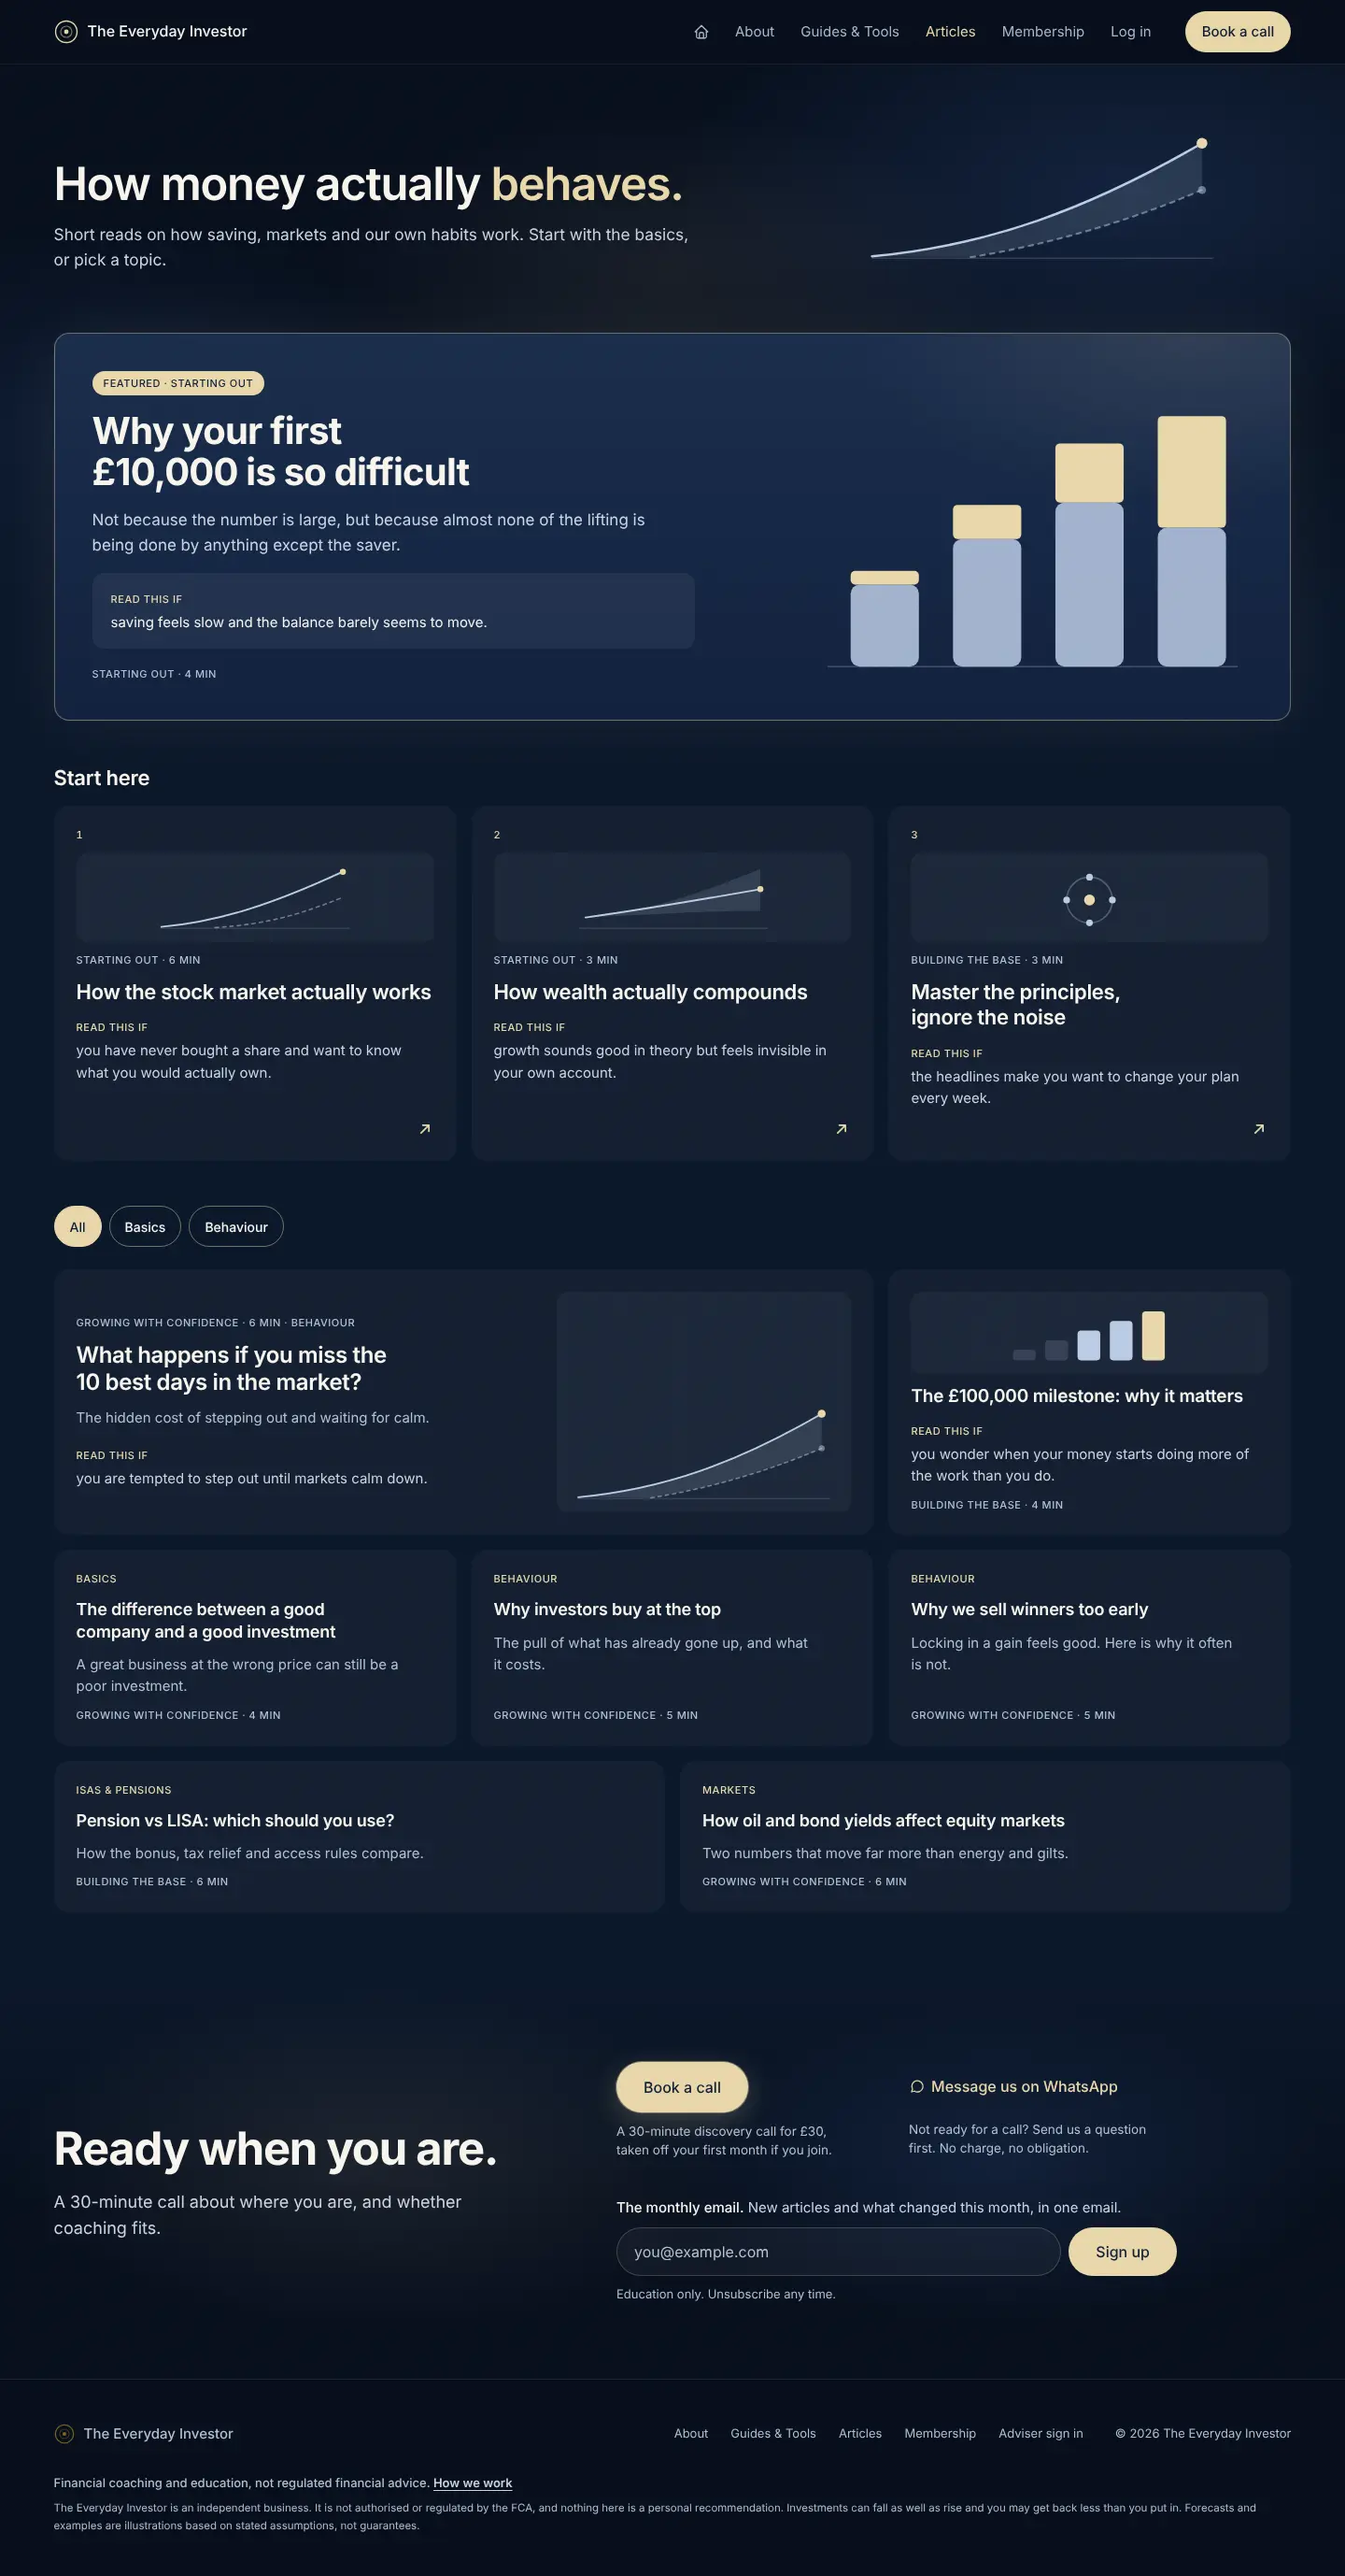
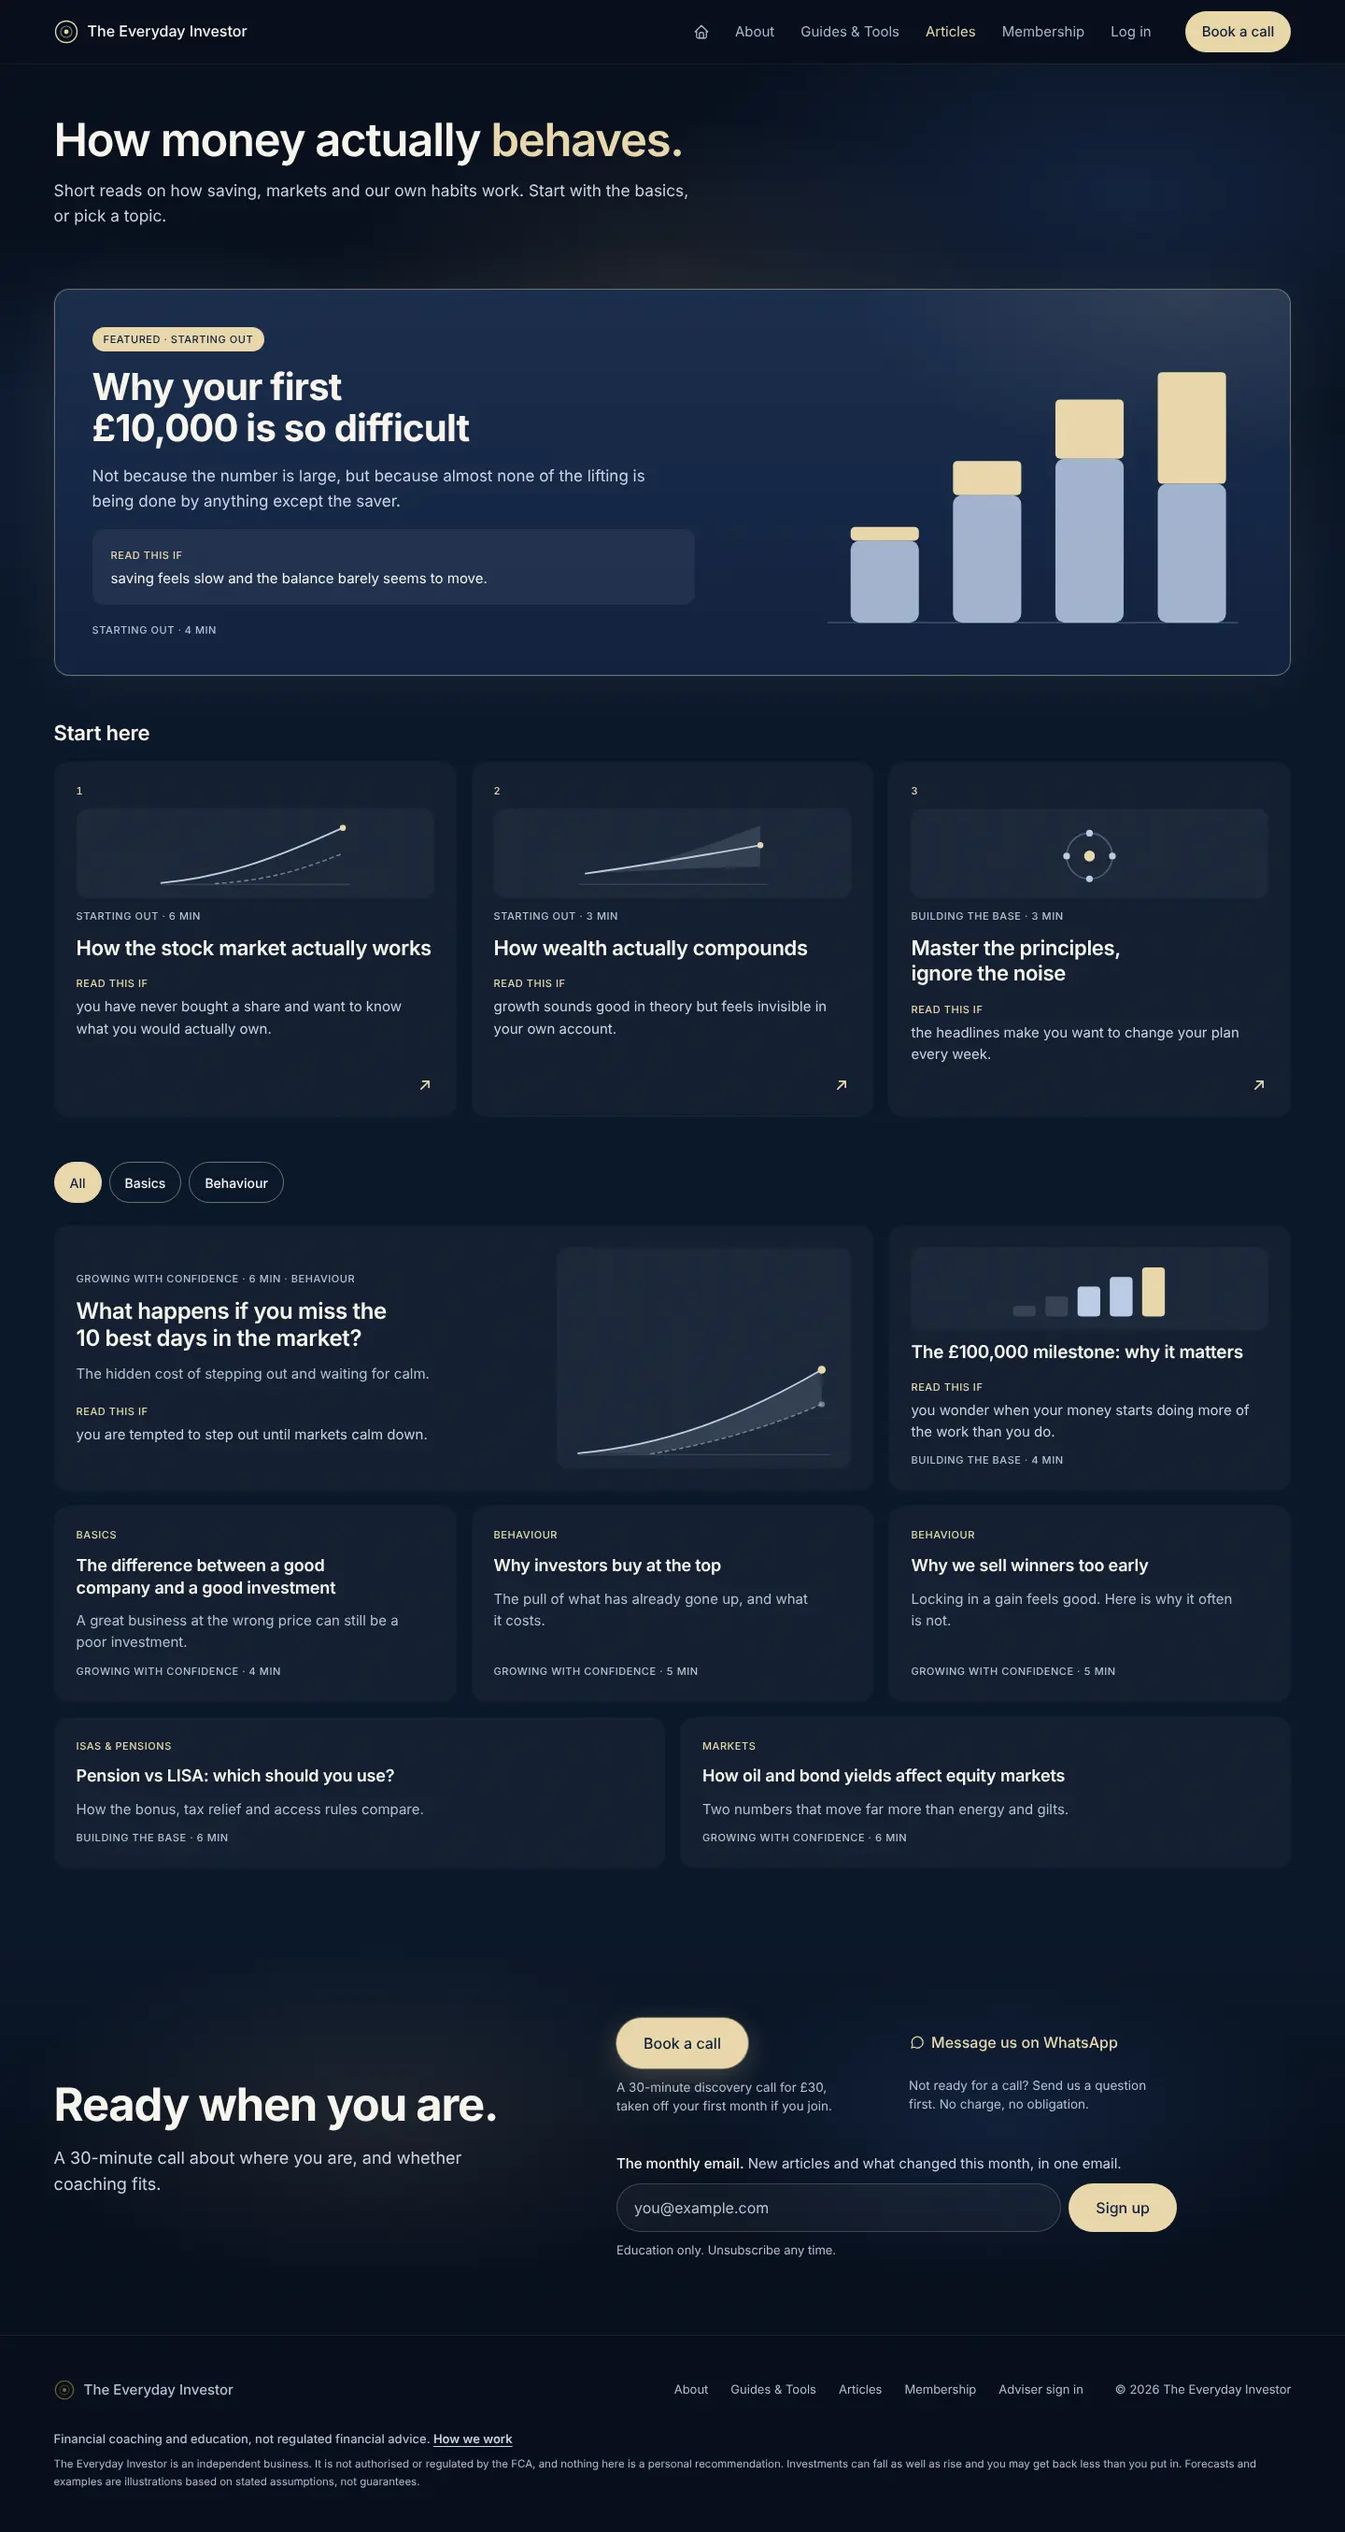
Articles hero: no picture; keep the line under the title
Claude-Session: https://claude.ai/code/session_015wx5SxX2gBEycz1xZd8Pnn

diff --git a/assets/site-pages.css b/assets/site-pages.css
@@ -231,13 +231,6 @@
 .al-pop { position: absolute; z-index: 3; left: 12px; right: 12px; display: block; margin-top: 8px; padding: 12px; border-radius: 12px; background: #1A2C4A; border: 1px solid rgba(232, 214, 168, .35); font-family: var(--tei-word); font-size: 13px; font-weight: 400; line-height: 1.5; letter-spacing: 0; color: var(--g-ink); text-wrap: pretty; }
 .al-pop .al-k { display: block; margin-bottom: 4px; }
 
-/* Hero: the line and a picture on the right */
-.al-hero-in { display: grid; grid-template-columns: minmax(0, 7fr) minmax(0, 5fr); grid-template-rows: 1fr auto; column-gap: 48px; align-items: end; }
-.al-hero-in > h1, .al-hero-in > .g-dek { grid-column: 1; }
-.al-hero-art { grid-column: 2; grid-row: 1 / span 2; height: 168px; }
-.al-hero-art .gt-svg { left: 0; bottom: 0; width: 100%; height: 100%; }
-.al-hero-strip { display: none; }
-
 /* Pictures */
 .al-art {
   position: relative; overflow: hidden; border-radius: 12px; background: rgba(255, 255, 255, .04);
@@ -349,12 +342,6 @@
   .al-info { -webkit-tap-highlight-color: transparent; display: inline-flex; position: relative; z-index: 2; align-items: center; justify-content: center; width: 44px; height: 44px; margin: -14px -14px -14px -8px; padding: 0; border: 0; background: none; color: var(--g-champ); cursor: pointer; vertical-align: middle; }
   .al-info svg { width: 16px; height: 16px; fill: none; stroke: currentColor; stroke-width: 1.8; stroke-linecap: round; }
   .al-info[aria-expanded="true"] svg { fill: rgba(232, 214, 168, .18); }
-
-  /* Hero: the title, the line, then the picture as a wide strip */
-  .al-hero-in { display: block; }
-  .al-hero-art { height: auto; margin-top: 20px; }
-  .al-hero-big { display: none; }
-  .al-hero-art .al-hero-strip { display: block; position: static; width: 100%; height: auto; }
 
   /* Featured: chip, title, the picture with room, then Read this if */
   .al-feat { display: flex; flex-direction: column; gap: 12px; padding: 16px; }

diff --git a/articles.html b/articles.html
@@ -37,13 +37,11 @@
 
 <main class="tei-page g-page" id="main">
 
-<section class="g-band g-hero al-hero">
+<section class="g-band g-hero">
 <div class="g-glow g-glow-hero" aria-hidden="true"></div>
-<div class="g-w g-in al-hero-in">
+<div class="g-w g-in">
 <h1>How money actually <span class="g-accent">behaves.</span></h1>
 <p class="g-dek">Short reads on how saving, markets and our own habits work. Start with the basics, or pick a topic.</p>
-<!-- The "lines" picture from /assets/tei-art.js, written here so it shows with JS off; on phones a wide strip of the same picture -->
-<div class="al-hero-art al-art is-bare" aria-hidden="true"><svg class="gt-svg al-hero-strip" viewBox="0 0 400 64" preserveAspectRatio="xMidYMax meet" focusable="false"><line class="s-pale" x1="6" y1="62" x2="394" y2="62"/><path class="f-pale" d="M6 61 C 150 57, 280 38, 388 8 L 388 32 C 300 46, 200 56, 110 61 Z"/><path class="s-main w3" d="M6 61 C 150 57, 280 38, 388 8"/><path class="s-main w2 dash o5" d="M110 61 C 200 56, 300 46, 388 32"/><circle class="f-acc" cx="388" cy="8" r="5"/><circle class="f-main o5" cx="388" cy="32" r="4"/></svg><svg class="gt-svg al-hero-big" viewBox="0 0 400 150" preserveAspectRatio="xMidYMax meet" focusable="false"><line class="s-pale" x1="10" y1="146" x2="390" y2="146"/><path class="f-pale t-fade" d="M10 144 C 140 132, 250 92, 378 18 L 378 70 C 290 108, 200 132, 120 145 Z"/><path class="s-main w3 t-draw2" d="M10 144 C 140 132, 250 92, 378 18"/><path class="s-main w2 dash o5 t-draw2 d2" d="M120 145 C 200 132, 290 108, 378 70"/><circle class="f-acc t-blink" cx="378" cy="18" r="6"/><circle class="f-main o5" cx="378" cy="70" r="4.5"/></svg></div>
 </div>
 </section>
 
